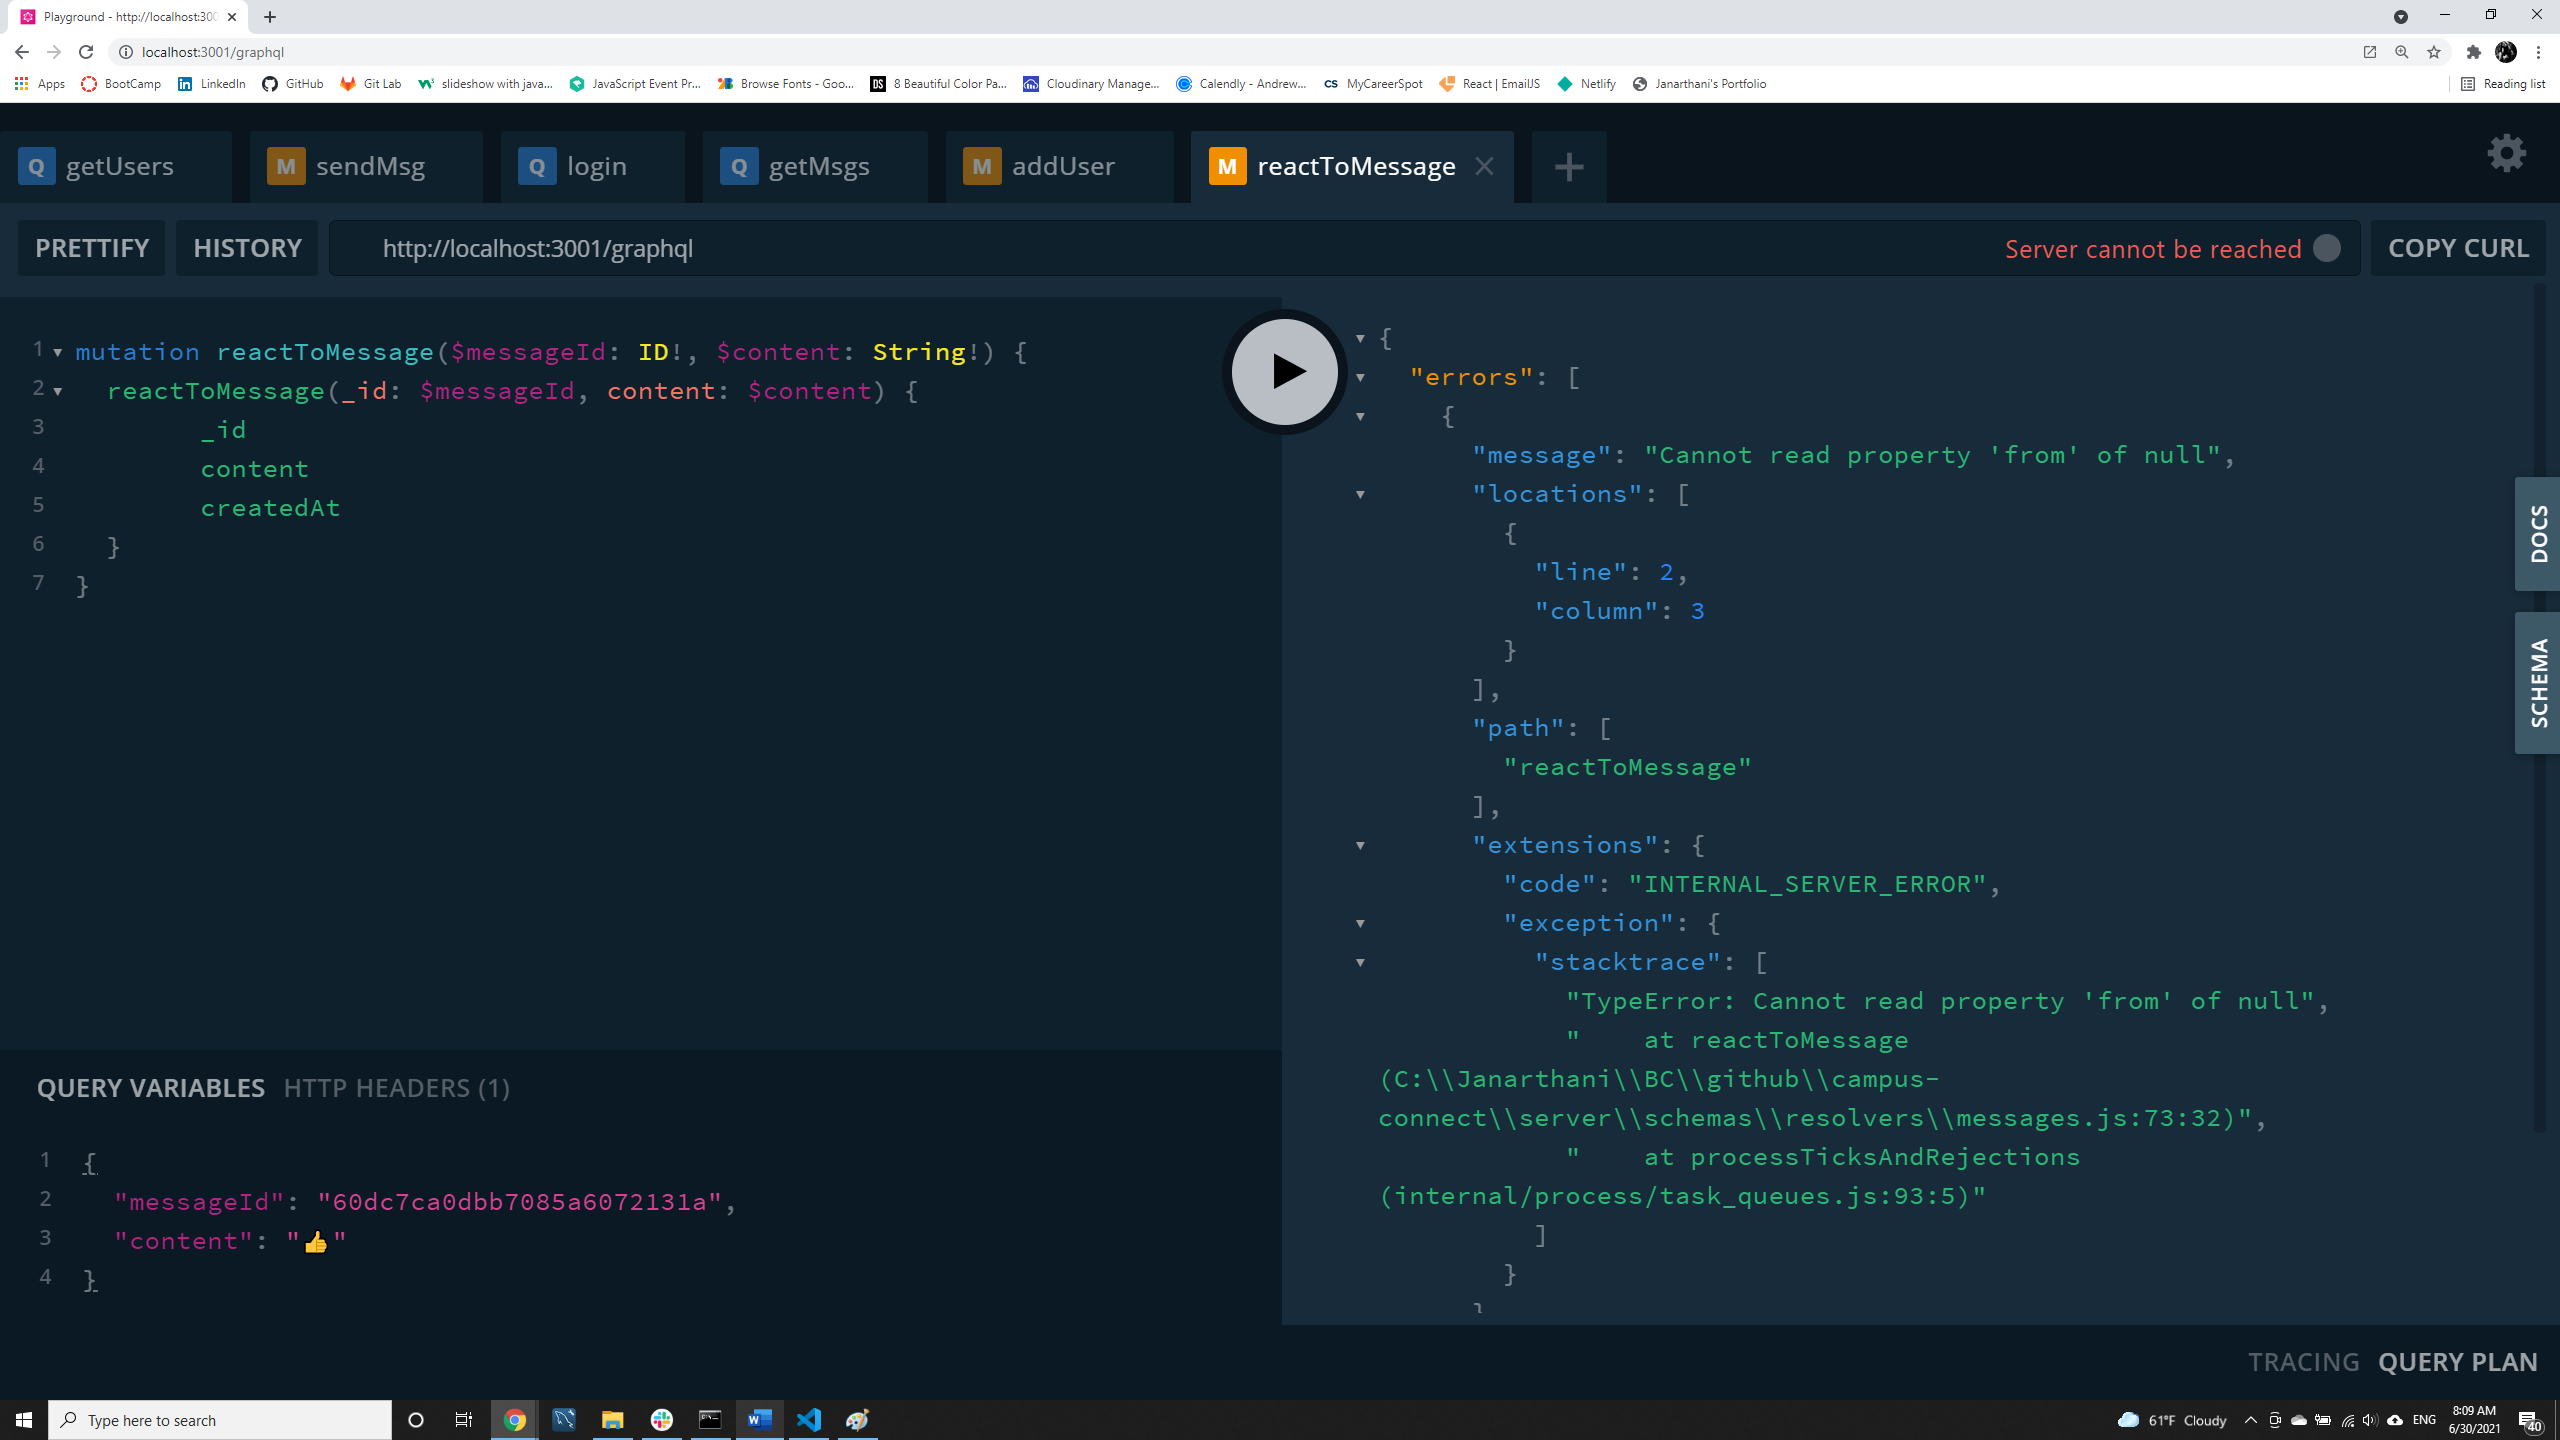
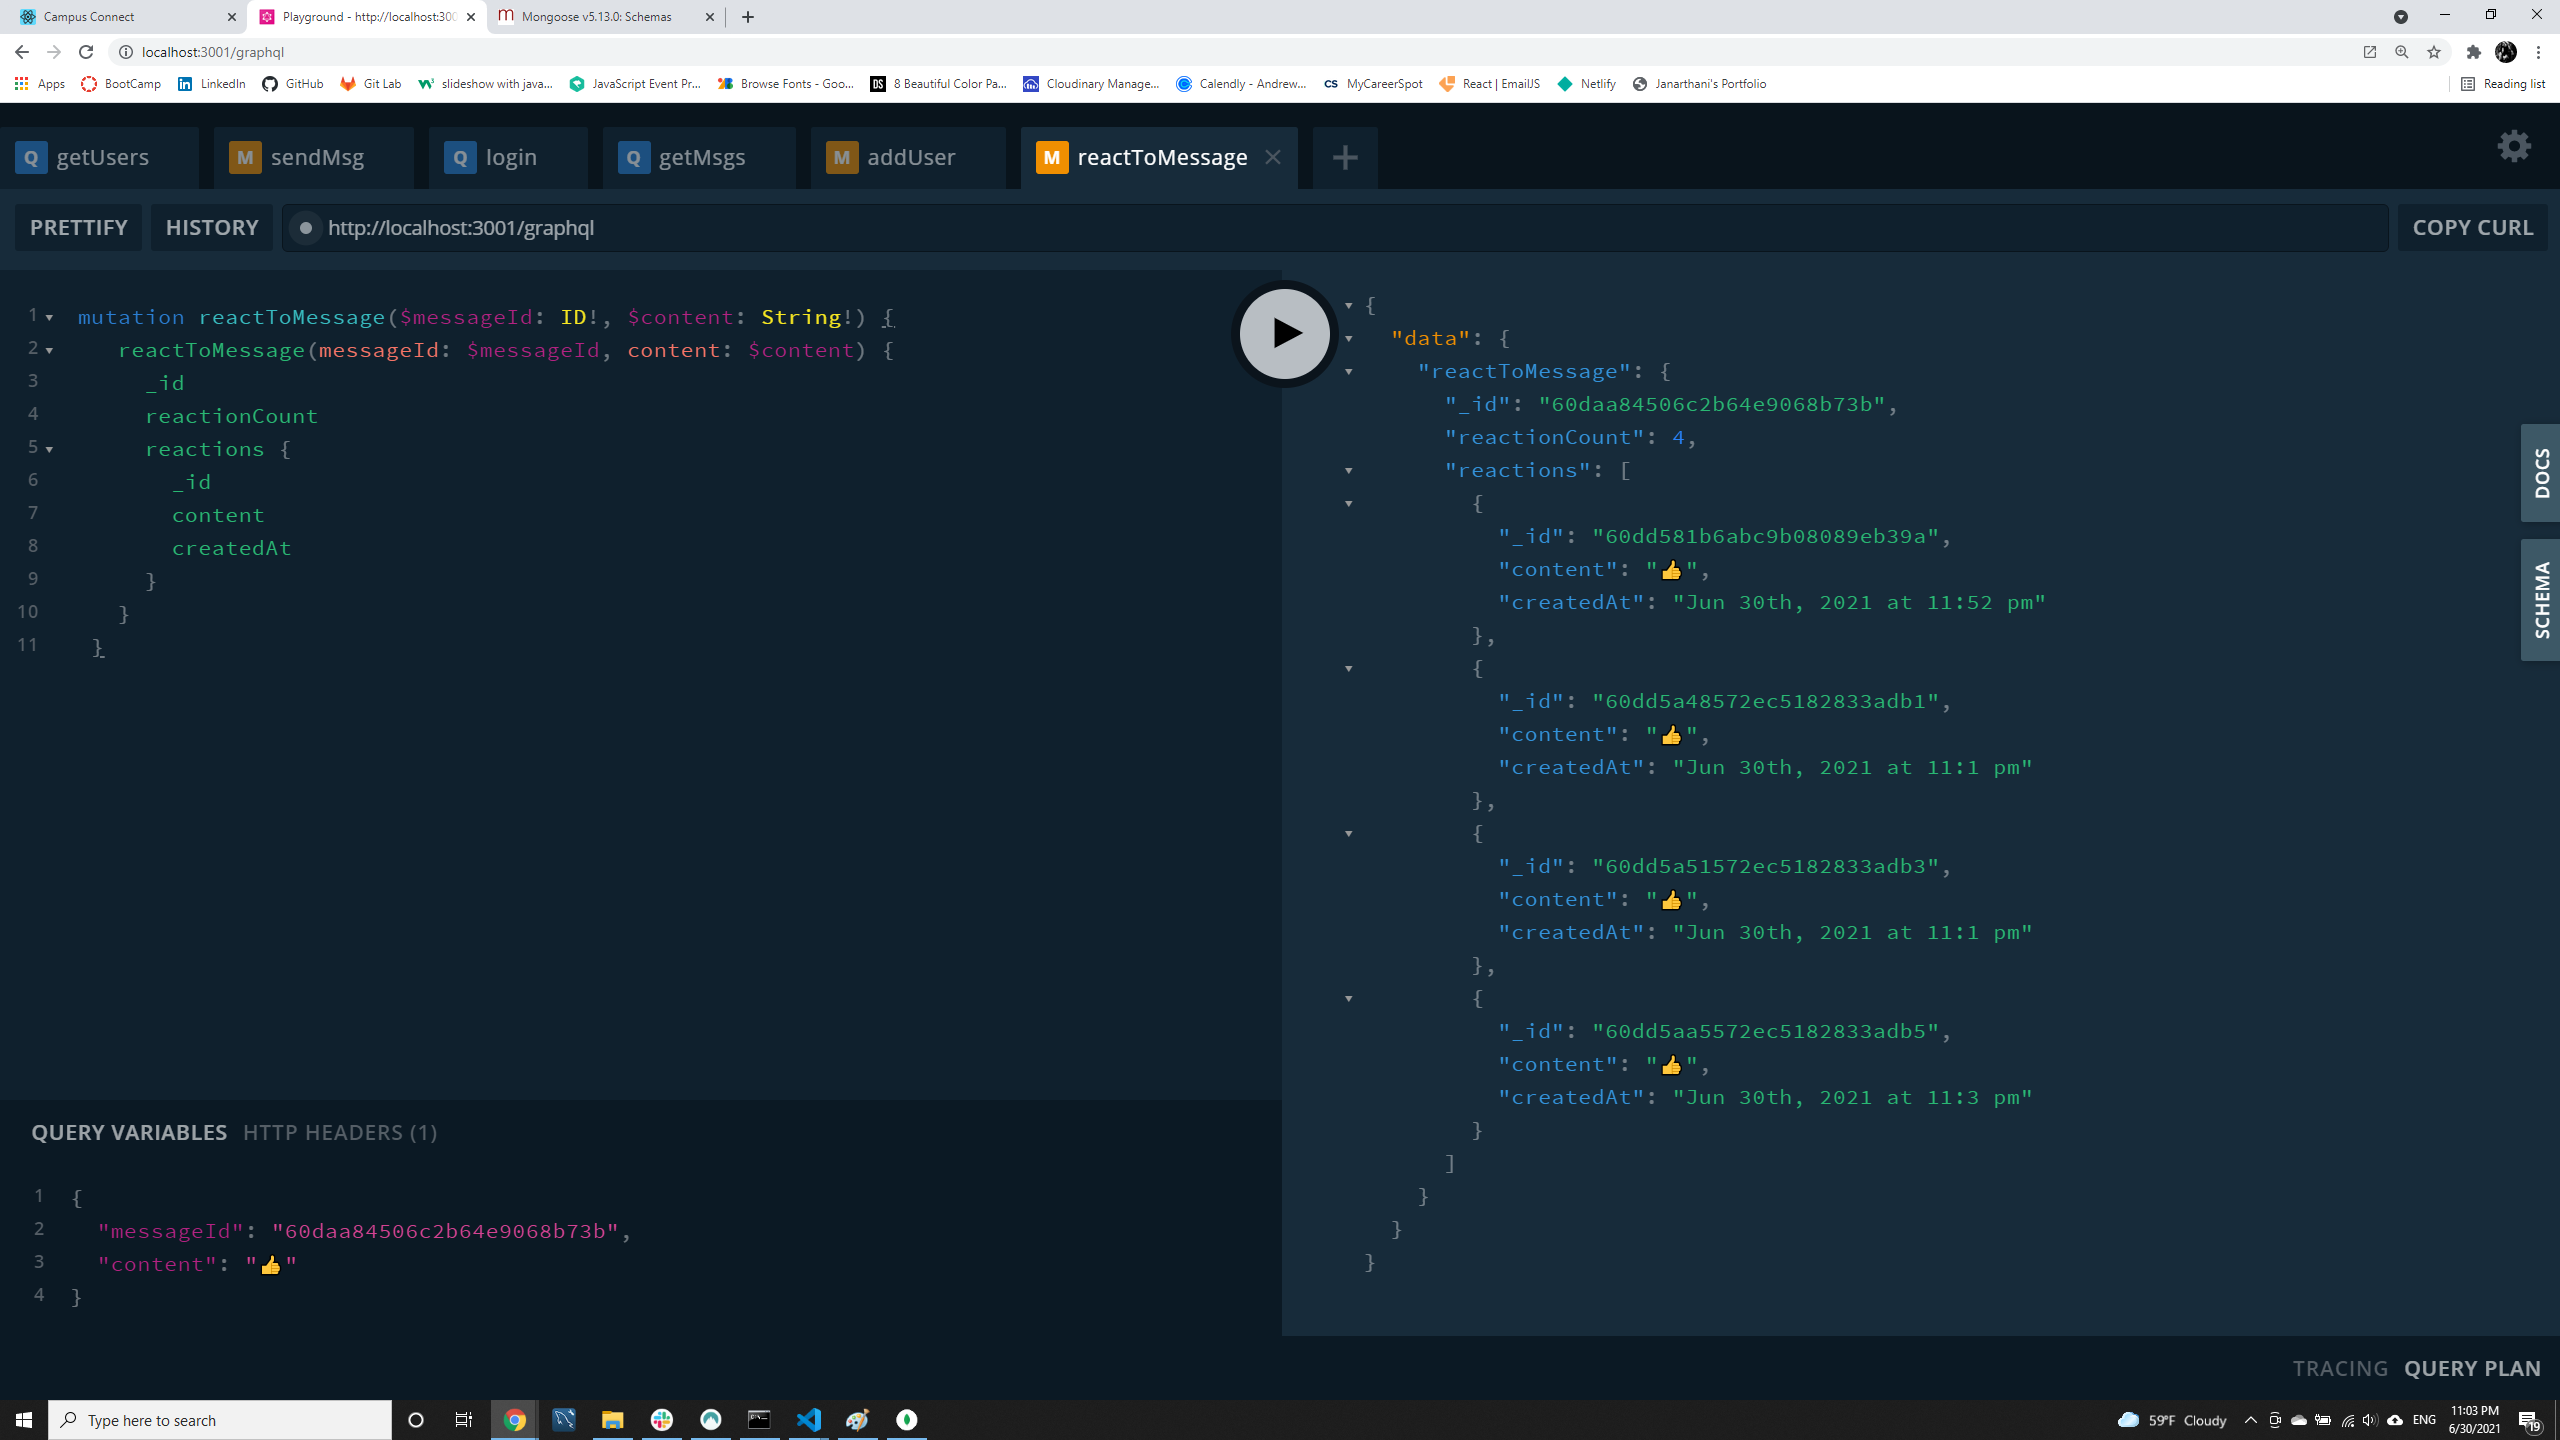
resolved errors in mutations and queries

diff --git a/server/schemas/resolvers/messages.js b/server/schemas/resolvers/messages.js
@@ -16,14 +16,14 @@ module.exports = {
             try {
                 // throw error if the user is not logged in
                 if (!context.user) throw new AuthenticationError('Not logged in');
-                const receiverEmail = context.user.email;
+                const receiver = context.user.username;
                 // check if sender is in the database
-                const sender = await User.findOne({ email: from });
+                const sender = await User.findOne({ username: from });
                 if (!sender) throw new UserInputError('User not found');
                 // Get messages that are sent to the user and sort it by createdAt
                 const msgToGet = await Message.find({
-                    to: { $in: [receiverEmail, sender.email] },
-                    from: { $in: [receiverEmail, sender.email] }
+                    to: { $in: [receiver, sender.username] },
+                    from: { $in: [receiver, sender.username] }
                 }).sort({ createdAt: -1 });
 
                 return msgToGet;
@@ -41,14 +41,14 @@ module.exports = {
             try {
                 // throw error if the user is not logged in
                 if (!context.user) throw new AuthenticationError('Not logged in');
-                const senderEmail = context.user.email;
+                const sender = context.user.username;
                 // check if the receiver is in the database
-                const receiver = await User.findOne({ email: to });
+                const receiver = await User.findOne({ username: to });
                 if (!receiver) throw new UserInputError('User not found');
                 // check if msg is empty
                 if (msg.trim() === '') throw new UserInputError('Message is empty');
                 // create new message and publish it
-                const msgToSend = await Message.create({ from: senderEmail, to, msg });
+                const msgToSend = await Message.create({ from: sender, to, msg });
                 context.pubsub.publish('NEW_MESSAGE', { newMessage: msgToSend })
                 return msgToSend;
             } catch (error) {
@@ -65,12 +65,12 @@ module.exports = {
                 // Get message
                 const updatedMsg = await Message.findOneAndUpdate(
                     { _id: messageId },
-                    { $push: { reactions: { content, email: user.email } } },
+                    { $push: { reactions: { content, username: user.username } } },
                     { new: true }
                 );
                 console.log(updatedMsg);
                 if (!updatedMsg) throw new UserInputError('message not found');
-                if (updatedMsg.from !== user.email && updatedMsg.to !== user.email) {
+                if (updatedMsg.from !== user.username && updatedMsg.to !== user.username) {
                     throw new ForbiddenError('Unauthorized');
                 }
                 const index = updatedMsg.reactions.length - 1;
@@ -122,4 +122,4 @@ module.exports = {
     },
 }
 
-// Need to check if get msg, send msg, reactToMessage and subscriptions are working correctly
+// Need to check if reactToMessage and subscriptions are working correctly

diff --git a/server/schemas/resolvers/users.js b/server/schemas/resolvers/users.js
@@ -12,9 +12,9 @@ module.exports = {
       try {
         // throw error if the user is not logged in
         if (!context.user) throw new AuthenticationError('Not logged in');
-        const clientEmail = context.user.email;
-        let allUsers = await User.find({ email: { $ne: clientEmail } });
-        const msgs = await Message.find({ $or: [{ from: clientEmail }, { to: clientEmail }] })
+        const clientName = context.user.username;
+        let allUsers = await User.find({ username: { $ne: clientName } });
+        const msgs = await Message.find({ $or: [{ from: clientName }, { to: clientName }] })
           .sort({ createdAt: -1 });
         allUsers = allUsers.map((otherUser) => {
           const latestMessage = msgs.find(
@@ -30,24 +30,24 @@ module.exports = {
     },
 
     // user login
-    login: async (_parent, { email, password }) => {
+    login: async (_parent, { username, password }) => {
       let errors = {}
       try {
         // Validate user input
-        if (email.trim() === '')
-          errors.email = 'email must not be empty'
+        if (username.trim() === '')
+          errors.username = 'username must not be empty'
         if (password === '') errors.password = 'password must not be empty'
 
         if (Object.keys(errors).length > 0) {
           throw new UserInputError('bad input', { errors })
         }
         // check if email is in the database
-        const user = await User.findOne({ email });
+        const user = await User.findOne({ username });
         if (!user) throw new AuthenticationError('Incorrect Credentials');
         // check if password is matching/correct
         const correctPw = await user.isCorrectPassword(password);
         if (!correctPw) throw new AuthenticationError('Incorrect Credentials');
-        const token = jwt.sign({ email }, "myawesomeproject", {
+        const token = jwt.sign({ username }, "myawesomeproject", {
           expiresIn: 60 * 60,
         })
         return {
@@ -78,7 +78,7 @@ module.exports = {
           throw new UserInputError('bad input', { errors })
         }
         const user = await User.create(args);
-        const token = jwt.sign({ email }, "myawesomeproject", {
+        const token = jwt.sign({ username }, "myawesomeproject", {
           expiresIn: 60 * 60,
         })
         return {

diff --git a/client/src/utils/mutations.js b/client/src/utils/mutations.js
@@ -1,28 +1,30 @@
 import gql from 'graphql-tag';
 
 export const ADD_USER = gql`
-  mutation addUser($username: String!, $email: String!, $password: String!) {
+mutation addUser($username: String!, $email: String!, $password: String!) {
     addUser(username: $username, email: $email, password: $password) {
       token
         _id
         username
+    email
+    imageUrl
+    createdAt
     }
   }
 `;
 
 export const REACT_TO_MESSAGE = gql`
-mutation reactToMessage($_id: ID!, $content: String!) {
-  reactToMessage(_id: $_id, content: $content) {
-    _id
-    reactionCount
+ mutation reactToMessage($messageId: ID!, $content: String!) {
+    reactToMessage(messageId: $messageId, content: $content) {
+      _id
+      reactionCount
       reactions {
         _id
         content
         createdAt
-        username
       }
+    }
   }
-}
 `
 export const SEND_MESSAGE = gql`
 mutation sendMsg($to: String!, $msg: String!) {

diff --git a/client/src/utils/queries.js b/client/src/utils/queries.js
@@ -1,13 +1,12 @@
 import gql from 'graphql-tag';
 
 export const LOGIN_USER = gql`
-  query login($email: String!, $password: String!) {
-    login(email: $email, password: $password) {
+ query login($username: String!, $password: String!) {
+    login(username: $username, password: $password) {
+      username
+      email
+      createdAt
       token
-      user {
-        _id
-        username
-      }
     }
   }
 `;
@@ -16,8 +15,9 @@ export const GET_USERS = gql`
 query getUsers {
   getUsers {
     username
+    email
+    imageUrl
     createdAt
-    image
     latestMessage {
       _id
       from
@@ -29,8 +29,8 @@ query getUsers {
 }
 `
 export const GET_MESSAGES = gql`
-query getMessages($from: String!) {
-  getMessages(from: $from) {
+query getMsgs($from: String!) {
+  getMsgs(from: $from) {
     _id
     from
     to

diff --git a/server/schemas/typeDefs.js b/server/schemas/typeDefs.js
@@ -7,6 +7,7 @@ type User {
   username: String!
   email: String
   token: ID!
+  createdAt: String!
   imageUrl: String
   latestMessage: Message
 }
@@ -27,14 +28,14 @@ type Reaction {
     user: User!
   }
 type Query {
-  login(email: String!, password: String!): User!
+  login(username: String!, password: String!): User!
   getUsers: [User]!
   getMsgs(from:String!): [Message]!
 }
 type Mutation {
   addUser(username: String!, email: String!, password: String!): User!
   sendMsg(to:String! msg:String!): Message!
-  reactToMessage(_id: ID!, content: String!): Reaction!
+  reactToMessage(messageId: ID!, content: String!): Message!
 }
 type Subscription {
     newMessage: Message!

diff --git a/server/schemas/resolvers/index.js b/server/schemas/resolvers/index.js
@@ -1,17 +1,7 @@
 const userResolvers = require('./users')
 const messageResolvers = require('./messages')
 
-const { User, Message } = require('../../models')
-
 const resolvers = {
-    Reaction: {
-        message: async (parent) => await Message.findByPk(parent.messageId),
-        user: async (parent) =>
-            await User.findByPk(parent.userId, {
-                attributes: ['username', 'imageUrl', 'createdAt'],
-            }),
-    },
-
     Query: {
         ...userResolvers.Query,
         ...messageResolvers.Query,

diff --git a/server/models/User.js b/server/models/User.js
@@ -1,5 +1,6 @@
 const { Schema, model } = require('mongoose');
 const bcrypt = require('bcrypt');
+const dateFormat = require('../utils/dateFormat');
 
 const userSchema = new Schema(
   {
@@ -23,7 +24,17 @@ const userSchema = new Schema(
     imageUrl: {
       type: String,
     },
+    createdAt: {
+      type: Date,
+      default: Date.now,
+      get: timestamp => dateFormat(timestamp)
+    },
   },
+  {
+    toJSON: {
+      getters: true
+    }
+  }
 );
 
 // set up pre-save middleware to create password

diff --git a/server/models/Reaction.js b/server/models/Reaction.js
@@ -8,7 +8,7 @@ const reactionSchema = new Schema(
             required: true,
             maxlength: 280
         },
-        email: {
+        username: {
             type: String,
             required: true
         },

diff --git a/client/src/utils/subscriptions.js b/client/src/utils/subscriptions.js
@@ -1,0 +1,13 @@
+import gql from 'graphql-tag';
+
+export const NEW_MESSAGE = gql`
+subscription newMessage {
+  newMessage {
+    uuid
+    from
+    to
+    content
+    createdAt
+  }
+}
+`
